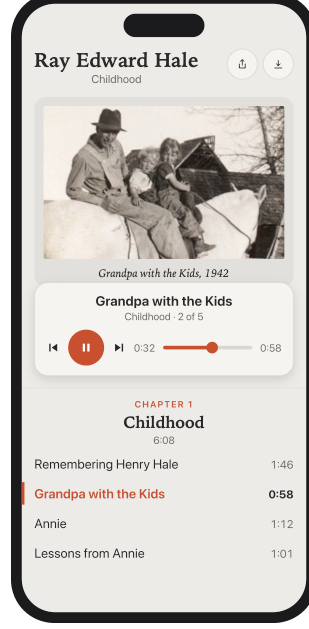
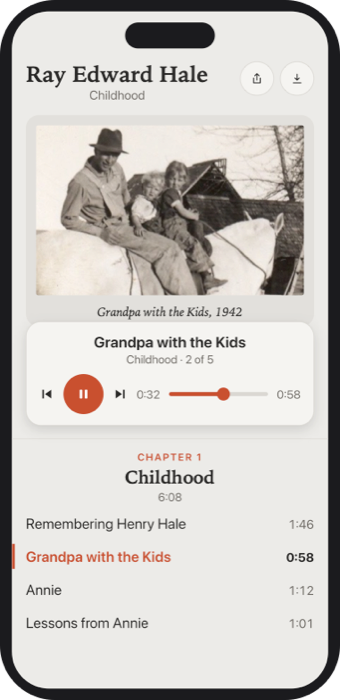
Home page: red satin bow and gift tag for the holiday sale, cleanly trimmed iPhone, margin photos spread behind the content and off the edges

diff --git a/public/index.html b/public/index.html
@@ -74,7 +74,7 @@
   .feature li { margin-bottom: 10px; }
   figure { margin: 0; }
   figure img { display: block; width: 100%; height: auto; border-radius: 14px; border: 1px solid var(--line); }
-  figure img.phone { max-width: 220px; margin: 0 auto; border: 0; }
+  figure img.phone { max-width: 230px; margin: 0 auto; border: 0; border-radius: 0; background: none; filter: drop-shadow(0 24px 40px rgba(0,0,0,.35)); }
   figcaption, .note { margin-top: 8px; font-size: 0.9rem; color: var(--muted); text-align: center; }
   .quote { text-align: center; max-width: 640px; margin-left: auto; margin-right: auto; }
   .quote p { font-size: clamp(1.4rem, 4vw, 1.8rem); line-height: 1.35; margin: 0; }
@@ -114,7 +114,7 @@
   .communities > p { color: var(--text); }
   html, body { overflow-x: clip; } body { position: relative; }
   .margin-photos { display: none; }
-  @media (min-width: 1260px) {
+  @media (min-width: 1100px) {
     .margin-photos { display: block; position: absolute; inset: 0; pointer-events: none; overflow: hidden; z-index: 0; }
     .margin-photos img { position: absolute; height: auto; border: 6px solid #fbf8f3; border-radius: 3px;
       box-shadow: 0 14px 34px rgba(0,0,0,.28); transform: translate3d(0, var(--y, 0px), 0) rotate(var(--r)); will-change: transform; }
@@ -127,29 +127,30 @@
       border: 1px solid var(--glass-edge); box-shadow: inset 0 1px 0 var(--glass-shine), 0 30px 80px rgba(0,0,0,.18); }
   }
   /* Holiday sticker: a price sticker slapped on the page; sticks in the right margin on wide screens */
-  .sticker { position: absolute; top: 58px; right: 10px; z-index: 5; width: 116px; height: 116px;
-    display: grid; place-content: center; text-align: center; text-decoration: none; color: #fff; line-height: 1;
-    transform: rotate(12deg); animation: slap .7s cubic-bezier(.2,1.6,.4,1) .6s both; transition: transform .3s cubic-bezier(.2,1.6,.4,1);
-    filter: drop-shadow(0 10px 18px rgba(150,30,30,.4)); isolation: isolate; }
-  .sticker .s-burst { position: absolute; inset: 0; clip-path: polygon(50.0% 0.0%, 55.7% 6.4%, 62.9% 1.7%, 66.8% 9.3%, 75.0% 6.7%, 76.8% 15.1%, 85.4% 14.6%, 84.9% 23.2%, 93.3% 25.0%, 90.7% 33.2%, 98.3% 37.1%, 93.6% 44.3%, 100.0% 50.0%, 93.6% 55.7%, 98.3% 62.9%, 90.7% 66.8%, 93.3% 75.0%, 84.9% 76.8%, 85.4% 85.4%, 76.8% 84.9%, 75.0% 93.3%, 66.8% 90.7%, 62.9% 98.3%, 55.7% 93.6%, 50.0% 100.0%, 44.3% 93.6%, 37.1% 98.3%, 33.2% 90.7%, 25.0% 93.3%, 23.2% 84.9%, 14.6% 85.4%, 15.1% 76.8%, 6.7% 75.0%, 9.3% 66.8%, 1.7% 62.9%, 6.4% 55.7%, 0.0% 50.0%, 6.4% 44.3%, 1.7% 37.1%, 9.3% 33.2%, 6.7% 25.0%, 15.1% 23.2%, 14.6% 14.6%, 23.2% 15.1%, 25.0% 6.7%, 33.2% 9.3%, 37.1% 1.7%, 44.3% 6.4%); z-index: -1;
-    background: radial-gradient(circle at 35% 30%, #ef5a4f, #c62f2b 55%, #a3201f); }
-  .sticker .s-burst::after { content: ""; position: absolute; inset: 12%; border-radius: 50%; border: 2px dashed rgba(255,226,160,.85); }
-  .sticker:hover { transform: rotate(0deg) scale(1.08); }
-  .sticker:hover .s-burst { animation: spin 6s linear infinite; }
-  @keyframes spin { to { rotate: 360deg; } }
-  .sticker .s-top { font-size: .6rem; font-weight: 800; letter-spacing: .1em; text-transform: uppercase; color: #ffe2a0; }
-  .sticker .s-upto { font-size: .62rem; font-weight: 600; margin-top: 4px; opacity: .9; }
-  .sticker .s-big { font-weight: 800; font-size: 1.85rem; letter-spacing: -.03em; margin: 1px 0 0; }
-  .sticker .s-bot { font-size: .9rem; font-weight: 800; letter-spacing: .14em; text-transform: uppercase; }
-  @keyframes slap { from { opacity: 0; transform: rotate(40deg) scale(1.3); } }
+  /* Holiday bow and gift tag: sticks in the right margin on wide screens */
+  .sticker { position: absolute; top: 56px; right: 8px; z-index: 5; width: 128px; display: flex; flex-direction: column; align-items: center;
+    text-decoration: none; transform: rotate(8deg); transform-origin: 50% 20%; animation: drop .9s cubic-bezier(.2,1.5,.4,1) .5s both;
+    filter: drop-shadow(0 10px 14px rgba(90,10,10,.35)); }
+  .sticker .bow { width: 100%; height: auto; display: block; position: relative; z-index: 2; }
+  .sticker .tag { margin-top: -10px; position: relative; display: grid; gap: 2px; text-align: center; padding: 14px 10px 10px; width: 86%;
+    background: linear-gradient(160deg, #fffaf0, #f3e6cf); color: #8e1416; border-radius: 6px 6px 10px 10px;
+    clip-path: polygon(14% 0, 86% 0, 100% 12%, 100% 100%, 0 100%, 0 12%); transform-origin: 50% 0; animation: sway 4s ease-in-out 1.6s infinite; }
+  .sticker .tag::before { content: ""; position: absolute; top: 5px; left: 50%; width: 7px; height: 7px; margin-left: -3.5px; border-radius: 50%; background: #c9b48e; }
+  .sticker .t-top { font-size: .62rem; font-weight: 800; letter-spacing: .12em; text-transform: uppercase; color: #b8322f; margin-top: 4px; }
+  .sticker .t-big { font-family: "Playfair Display", Georgia, serif; font-style: italic; font-weight: 500; font-size: 1.05rem; line-height: 1.1; color: #3a1a12; }
+  .sticker .t-more { font-size: .62rem; font-weight: 600; color: #8e1416; }
+  .sticker:hover { transform: rotate(0deg) scale(1.05); transition: transform .4s cubic-bezier(.2,1.5,.4,1); }
+  @keyframes drop { from { opacity: 0; transform: translateY(-40px) rotate(-10deg); } }
+  @keyframes sway { 50% { transform: rotate(-4deg); } }
   main { position: relative; }
-  .big-brand { padding-right: 120px; }
+  .big-brand { padding-right: 130px; }
   @media (min-width: 1260px) {
-    .sticker { position: fixed; top: 74px; right: calc(((100vw - 880px) / 2 - 156px) / 2); width: 156px; height: 156px; }
-    .sticker .s-top { font-size: .72rem; } .sticker .s-upto { font-size: .75rem; } .sticker .s-big { font-size: 2.6rem; } .sticker .s-bot { font-size: 1.15rem; }
+    .sticker { position: fixed; top: 70px; right: max(16px, calc(((100vw - 880px) / 2 - 180px) / 2)); width: 180px; }
+    .sticker .t-top { font-size: .72rem; } .sticker .t-big { font-size: 1.45rem; } .sticker .t-more { font-size: .72rem; }
     .big-brand { padding-right: 0; }
   }
-  @media (prefers-reduced-motion: reduce) { .sticker, .sticker:hover .s-burst { animation: none; } }
+  @media (max-width: 1259px) { .sticker { width: 100px; } .sticker .t-big { font-size: .9rem; } .sticker .t-top, .sticker .t-more { font-size: .55rem; } .big-brand { margin-bottom: 52px; } }
+  @media (prefers-reduced-motion: reduce) { .sticker, .sticker .tag { animation: none; } }
   footer { margin-top: 56px; border-top: 1px solid var(--line); padding-top: 16px; font-size: 0.9rem; color: var(--muted); }
   footer a { margin-right: 16px; }
   footer p { margin: 4px 0; }
@@ -157,28 +158,28 @@
 </head>
 <body>
 <div class="margin-photos" aria-hidden="true">
-  <img class="big" src="/images/gano-1940s2_6-lg.jpg" width="676" height="1000" alt="" loading="lazy" data-speed="0.08" style="top:3%;left:calc((100vw - 880px) / 2 - 252px);width:360px;--r:-3deg">
-  <img class="big" src="/images/gano-ggearlylife_4-lg.jpg" width="1000" height="800" alt="" loading="lazy" data-speed="0.06" style="top:14%;right:calc((100vw - 880px) / 2 - 360px);width:500px;--r:2deg">
-  <img class="big" src="/images/gano-iramargaretgano_1-lg.jpg" width="1000" height="948" alt="" loading="lazy" data-speed="0.07" style="top:33%;left:calc((100vw - 880px) / 2 - 326px);width:480px;--r:2deg">
-  <img class="big" src="/images/gano-waltjune_2-lg.jpg" width="967" height="1000" alt="" loading="lazy" data-speed="0.09" style="top:47%;right:calc((100vw - 880px) / 2 - 294px);width:420px;--r:-2deg">
-  <img class="big" src="/images/gano-levikeys_1-lg.jpg" width="1000" height="756" alt="" loading="lazy" data-speed="0.06" style="top:63%;left:calc((100vw - 880px) / 2 - 343px);width:520px;--r:-1.5deg">
-  <img class="big" src="/images/gano-lince2_2-lg.jpg" width="1000" height="961" alt="" loading="lazy" data-speed="0.08" style="top:80%;right:calc((100vw - 880px) / 2 - 322px);width:460px;--r:3deg">
-  <img class="small" src="/images/gano-waltjune_2.jpg" width="483" height="500" alt="" loading="lazy" data-speed="0.2" style="top:3%;right:calc((100vw - 880px) / 2 - 212px);width:170px;--r:4deg">
-  <img class="small" src="/images/gano-junedogs_1.jpg" width="482" height="500" alt="" loading="lazy" data-speed="0.16" style="top:12%;left:calc((100vw - 880px) / 2 - 242px);width:230px;--r:3deg">
-  <img class="small" src="/images/gano-1940s3_1.jpg" width="318" height="500" alt="" loading="lazy" data-speed="0.32" style="top:24%;right:calc((100vw - 880px) / 2 - 220px);width:110px;--r:-4deg">
-  <img class="small" src="/images/gano-juneyoung7_3.jpg" width="457" height="500" alt="" loading="lazy" data-speed="0.3" style="top:22%;left:calc((100vw - 880px) / 2 - 238px);width:140px;--r:-3deg">
-  <img class="small" src="/images/gano-ganofamily2_2.jpg" width="485" height="500" alt="" loading="lazy" data-speed="0.18" style="top:30%;right:calc((100vw - 880px) / 2 - 231px);width:210px;--r:-2deg">
-  <img class="small" src="/images/gano-1940s2_7.jpg" width="348" height="500" alt="" loading="lazy" data-speed="0.34" style="top:42%;left:calc((100vw - 880px) / 2 - 220px);width:100px;--r:5deg">
-  <img class="small" src="/images/gano-grandkids_4.jpg" width="500" height="470" alt="" loading="lazy" data-speed="0.26" style="top:39%;right:calc((100vw - 880px) / 2 - 240px);width:150px;--r:3deg">
-  <img class="small" src="/images/gano-iragano1_2.jpg" width="353" height="500" alt="" loading="lazy" data-speed="0.22" style="top:51%;left:calc((100vw - 880px) / 2 - 234px);width:180px;--r:-4deg">
-  <img class="small" src="/images/gano-juneyoung6_6.jpg" width="500" height="438" alt="" loading="lazy" data-speed="0.15" style="top:58%;right:calc((100vw - 880px) / 2 - 240px);width:240px;--r:3deg">
-  <img class="small" src="/images/gano-old3_2.jpg" width="500" height="438" alt="" loading="lazy" data-speed="0.3" style="top:71%;left:calc((100vw - 880px) / 2 - 247px);width:130px;--r:4deg">
-  <img class="small" src="/images/gano-1940s_3.jpg" width="420" height="500" alt="" loading="lazy" data-speed="0.33" style="top:69%;right:calc((100vw - 880px) / 2 - 240px);width:120px;--r:-3deg">
-  <img class="small" src="/images/gano-lince3_3.jpg" width="500" height="439" alt="" loading="lazy" data-speed="0.2" style="top:79%;left:calc((100vw - 880px) / 2 - 240px);width:200px;--r:-2deg">
-  <img class="small" src="/images/gano-ggearlylife_5.jpg" width="384" height="400" alt="" loading="lazy" data-speed="0.24" style="top:87%;right:calc((100vw - 880px) / 2 - 221px);width:170px;--r:4deg">
-  <img class="small" src="/images/gano-juneyoung5_5.jpg" width="309" height="400" alt="" loading="lazy" data-speed="0.3" style="top:88%;left:calc((100vw - 880px) / 2 - 231px);width:110px;--r:-5deg">
-  <img class="small" src="/images/gano-old2_2.jpg" width="400" height="324" alt="" loading="lazy" data-speed="0.28" style="top:94%;right:calc((100vw - 880px) / 2 - 234px);width:130px;--r:-3deg">
-  <img class="small" src="/images/gano-1940s3_5.jpg" width="270" height="400" alt="" loading="lazy" data-speed="0.22" style="top:95%;left:calc((100vw - 880px) / 2 - 225px);width:150px;--r:3deg">
+  <img class="big" src="/images/gano-1940s2_6-lg.jpg" width="676" height="1000" alt="" loading="lazy" data-speed="0.08" style="top:2%;left:calc((100vw - 880px) / 2 - 361px);width:380px;--r:-3deg">
+  <img class="big" src="/images/gano-ggearlylife_4-lg.jpg" width="1000" height="800" alt="" loading="lazy" data-speed="0.06" style="top:12%;right:calc((100vw - 880px) / 2 - 540px);width:540px;--r:2deg">
+  <img class="big" src="/images/gano-iramargaretgano_1-lg.jpg" width="1000" height="948" alt="" loading="lazy" data-speed="0.07" style="top:30%;left:calc((100vw - 880px) / 2 - 286px);width:520px;--r:2deg">
+  <img class="big" src="/images/gano-waltjune_2-lg.jpg" width="967" height="1000" alt="" loading="lazy" data-speed="0.09" style="top:44%;right:calc((100vw - 880px) / 2 - 273px);width:440px;--r:-2deg">
+  <img class="big" src="/images/gano-levikeys_1-lg.jpg" width="1000" height="756" alt="" loading="lazy" data-speed="0.06" style="top:60%;left:calc((100vw - 880px) / 2 - 609px);width:580px;--r:-1.5deg">
+  <img class="big" src="/images/gano-lince2_2-lg.jpg" width="1000" height="961" alt="" loading="lazy" data-speed="0.08" style="top:76%;right:calc((100vw - 880px) / 2 - 250px);width:500px;--r:3deg">
+  <img class="small" src="/images/gano-waltjune_2.jpg" width="483" height="500" alt="" loading="lazy" data-speed="0.2" style="top:3%;right:calc((100vw - 880px) / 2 - 94px);width:170px;--r:4deg">
+  <img class="small" src="/images/gano-junedogs_1.jpg" width="482" height="500" alt="" loading="lazy" data-speed="0.16" style="top:12%;left:calc((100vw - 880px) / 2 - 138px);width:230px;--r:3deg">
+  <img class="small" src="/images/gano-1940s3_1.jpg" width="318" height="500" alt="" loading="lazy" data-speed="0.32" style="top:24%;right:calc((100vw - 880px) / 2 - 176px);width:110px;--r:-4deg">
+  <img class="small" src="/images/gano-juneyoung7_3.jpg" width="457" height="500" alt="" loading="lazy" data-speed="0.3" style="top:21%;left:calc((100vw - 880px) / 2 - 285px);width:150px;--r:-3deg">
+  <img class="small" src="/images/gano-ganofamily2_2.jpg" width="485" height="500" alt="" loading="lazy" data-speed="0.18" style="top:30%;right:calc((100vw - 880px) / 2 - 299px);width:260px;--r:-2deg">
+  <img class="small" src="/images/gano-1940s2_7.jpg" width="348" height="500" alt="" loading="lazy" data-speed="0.34" style="top:42%;left:calc((100vw - 880px) / 2 - 40px);width:100px;--r:5deg">
+  <img class="small" src="/images/gano-grandkids_4.jpg" width="500" height="470" alt="" loading="lazy" data-speed="0.26" style="top:38%;right:calc((100vw - 880px) / 2 - 68px);width:150px;--r:3deg">
+  <img class="small" src="/images/gano-iragano1_2.jpg" width="353" height="500" alt="" loading="lazy" data-speed="0.22" style="top:50%;left:calc((100vw - 880px) / 2 - 300px);width:200px;--r:-4deg">
+  <img class="small" src="/images/gano-juneyoung6_6.jpg" width="500" height="438" alt="" loading="lazy" data-speed="0.15" style="top:57%;right:calc((100vw - 880px) / 2 - 364px);width:280px;--r:3deg">
+  <img class="small" src="/images/gano-old3_2.jpg" width="500" height="438" alt="" loading="lazy" data-speed="0.3" style="top:70%;left:calc((100vw - 880px) / 2 - 65px);width:130px;--r:4deg">
+  <img class="small" src="/images/gano-1940s_3.jpg" width="420" height="500" alt="" loading="lazy" data-speed="0.33" style="top:68%;right:calc((100vw - 880px) / 2 - 204px);width:120px;--r:-3deg">
+  <img class="small" src="/images/gano-lince3_3.jpg" width="500" height="439" alt="" loading="lazy" data-speed="0.2" style="top:78%;left:calc((100vw - 880px) / 2 - 336px);width:240px;--r:-2deg">
+  <img class="small" src="/images/gano-ggearlylife_5.jpg" width="384" height="400" alt="" loading="lazy" data-speed="0.24" style="top:86%;right:calc((100vw - 880px) / 2 - 85px);width:170px;--r:4deg">
+  <img class="small" src="/images/gano-juneyoung5_5.jpg" width="309" height="400" alt="" loading="lazy" data-speed="0.3" style="top:88%;left:calc((100vw - 880px) / 2 - 50px);width:110px;--r:-5deg">
+  <img class="small" src="/images/gano-old2_2.jpg" width="400" height="324" alt="" loading="lazy" data-speed="0.28" style="top:93%;right:calc((100vw - 880px) / 2 - 275px);width:220px;--r:-3deg">
+  <img class="small" src="/images/gano-1940s3_5.jpg" width="270" height="400" alt="" loading="lazy" data-speed="0.22" style="top:95%;left:calc((100vw - 880px) / 2 - 240px);width:150px;--r:3deg">
 </div>
 <header class="topbar">
   <div class="topbar-in">
@@ -187,8 +188,25 @@
   </div>
 </header>
 <a class="sticker" href="/holidays/" aria-label="Holiday sale: up to $200 off every package">
-  <span class="s-burst" aria-hidden="true"></span>
-  <span class="s-top">Holiday Sale</span><span class="s-upto">up to</span><span class="s-big">$200</span><span class="s-bot">off</span>
+  <svg class="bow" viewBox="0 0 200 130" aria-hidden="true">
+    <defs>
+      <linearGradient id="rib" x1="0" y1="0" x2="0" y2="1"><stop offset="0" stop-color="#ff6b5e"/><stop offset=".45" stop-color="#d9302b"/><stop offset="1" stop-color="#8e1416"/></linearGradient>
+      <linearGradient id="ribL" x1="1" y1="0" x2="0" y2="1"><stop offset="0" stop-color="#b81f20"/><stop offset=".5" stop-color="#e5463d"/><stop offset="1" stop-color="#7d1012"/></linearGradient>
+      <linearGradient id="shine" x1="0" y1="0" x2="1" y2="0"><stop offset="0" stop-color="#fff" stop-opacity="0"/><stop offset=".5" stop-color="#fff" stop-opacity=".55"/><stop offset="1" stop-color="#fff" stop-opacity="0"/></linearGradient>
+      <pattern id="satin" width="4" height="4" patternUnits="userSpaceOnUse" patternTransform="rotate(35)"><rect width="4" height="4" fill="#000" opacity="0"/><rect width="1.4" height="4" fill="#000" opacity=".08"/></pattern>
+      <radialGradient id="knot" cx=".4" cy=".35" r=".7"><stop offset="0" stop-color="#ff7a6b"/><stop offset=".6" stop-color="#c8272a"/><stop offset="1" stop-color="#7a0f12"/></radialGradient>
+    </defs>
+    <path d="M92 70 L60 128 L76 122 L84 132 L100 76 Z" fill="url(#ribL)"/><path d="M108 70 L140 128 L124 122 L116 132 L100 76 Z" fill="url(#rib)"/>
+    <g><path d="M98 62 C70 20 18 6 10 34 C4 58 46 82 96 72 Z" fill="url(#ribL)"/><path d="M98 62 C70 20 18 6 10 34 C4 58 46 82 96 72 Z" fill="url(#satin)"/>
+       <path d="M90 60 C66 36 34 24 22 34" fill="none" stroke="url(#shine)" stroke-width="6" stroke-linecap="round"/>
+       <path d="M96 70 C70 60 42 52 26 44" fill="none" stroke="#6e0c0f" stroke-opacity=".35" stroke-width="2"/></g>
+    <g><path d="M102 62 C130 20 182 6 190 34 C196 58 154 82 104 72 Z" fill="url(#rib)"/><path d="M102 62 C130 20 182 6 190 34 C196 58 154 82 104 72 Z" fill="url(#satin)"/>
+       <path d="M110 60 C134 36 166 24 178 34" fill="none" stroke="url(#shine)" stroke-width="6" stroke-linecap="round"/>
+       <path d="M104 70 C130 60 158 52 174 44" fill="none" stroke="#6e0c0f" stroke-opacity=".35" stroke-width="2"/></g>
+    <ellipse cx="100" cy="67" rx="15" ry="13" fill="url(#knot)"/><ellipse cx="100" cy="67" rx="15" ry="13" fill="url(#satin)"/>
+    <path d="M92 61 Q100 57 107 61" fill="none" stroke="#fff" stroke-opacity=".5" stroke-width="2.5" stroke-linecap="round"/>
+  </svg>
+  <span class="tag"><span class="t-top">Holiday Sale</span><span class="t-big">Up to $200 off</span><span class="t-more">See offer &rsaquo;</span></span>
 </a>
 <main>
   <div class="big-brand"><svg viewBox="110 360 805 328" aria-hidden="true" class="mark"><defs><linearGradient id="fhB" gradientUnits="userSpaceOnUse" x1="0" y1="0" x2="1024" y2="0"><stop offset="0.12" stop-color="#FFD58A"/><stop offset="0.5" stop-color="#FFB27A"/><stop offset="0.88" stop-color="#F07A7A"/></linearGradient></defs><path fill="url(#fhB)" d="M119 524L126 526L134 528L142 530L149 532L157 535L165 538L173 540L181 543L189 545L197 547L205 549L214 550L222 551L231 551L240 550L249 548L259 545L268 541L277 536L286 530L295 522L304 514L313 506L322 496L331 486L339 476L348 466L356 457L364 448L372 439L380 432L386 426L393 423L397 421L400 421L401 421L402 422L404 424L407 427L412 432L417 440L424 451L430 464L437 478L444 494L452 511L459 529L467 547L475 565L483 583L491 600L500 616L509 631L518 644L528 656L540 667L554 675L570 679L587 678L602 673L615 666L625 656L635 645L643 633L651 621L659 608L666 594L674 581L681 567L688 554L695 542L701 531L708 520L715 511L721 503L727 496L733 491L739 487L744 484L750 482L756 480L762 480L768 480L775 481L783 482L790 485L798 487L806 490L814 494L822 497L830 500L838 503L846 506L854 509L862 512L871 514L879 516L887 518L895 519L903 520L905 508L900 507L892 506L885 504L877 502L870 499L862 496L855 493L847 490L840 486L832 482L824 478L817 474L809 470L801 466L793 462L785 458L776 456L767 453L758 452L748 452L738 454L728 457L718 461L708 467L698 474L689 483L680 492L670 503L662 515L653 527L644 539L636 552L627 565L619 577L611 588L603 598L596 607L589 614L583 618L579 620L578 620L579 619L580 619L579 618L575 615L570 609L564 601L558 590L551 576L544 561L536 545L528 528L520 510L512 492L504 474L496 456L487 440L478 424L469 410L459 398L448 387L437 378L423 371L408 368L394 369L380 373L368 380L358 388L349 397L341 407L333 417L326 428L318 439L311 450L304 461L297 471L290 481L283 490L276 498L270 505L263 511L257 516L250 521L244 524L237 527L231 529L224 530L217 530L210 530L202 530L195 529L187 527L180 526L172 524L164 522L156 520L148 518L140 516L132 514L124 513L121 512Z"/></svg><p class="serif">Firsthand Stories</p></div>
@@ -265,7 +283,7 @@
         </ul>
       </div>
       <figure>
-        <img class="phone" src="/images/page-phone.png" width="309" height="629"
+        <img class="phone" src="/images/page-phone.png" width="340" height="700"
              alt="A story page on an iPhone: the story Grandpa with the Kids playing beside its 1942 photo, an audio player, and the Childhood chapter's list of stories">
         <figcaption>On any phone</figcaption>
       </figure>
